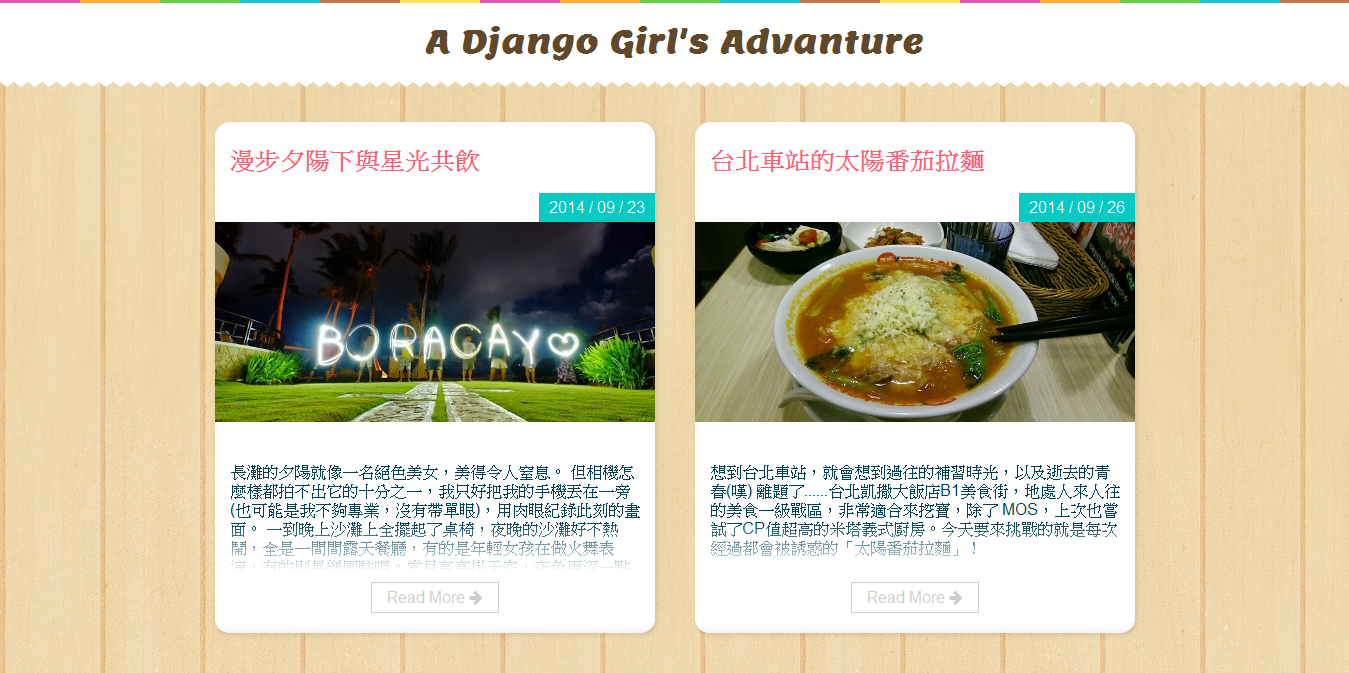
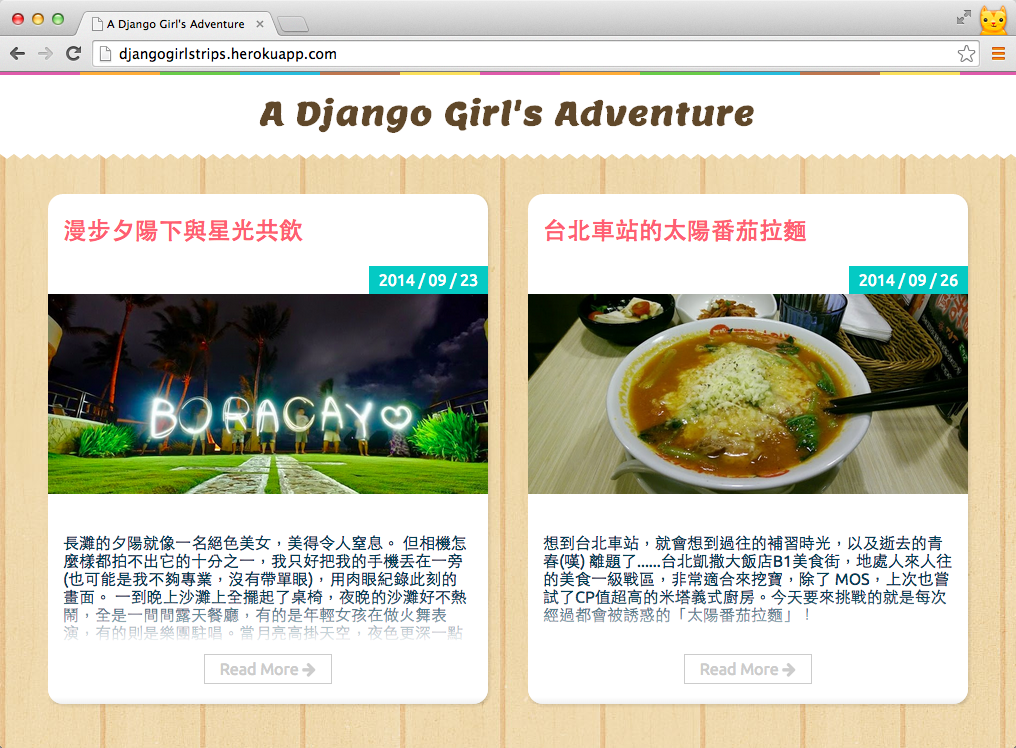
Fix typo

diff --git a/django/dynamic_url.md b/django/dynamic_url.md
@@ -97,7 +97,7 @@ return render(request, 'post.html', {'post': post})
 <html>
 <head>
     <meta charset="utf-8">
-    <title>A Django Girl's Advanture</title>
+    <title>A Django Girl's Adventure</title>
     <link href='http://fonts.googleapis.com/css?family=Lemon' rel='stylesheet' type='text/css'>
     <link href="//maxcdn.bootstrapcdn.com/font-awesome/4.2.0/css/font-awesome.min.css" rel="stylesheet">
     <link href="http://djangogirlstaipei.github.io/assets/css/style.css" rel=stylesheet>
@@ -105,7 +105,7 @@ return render(request, 'post.html', {'post': post})
 <body>
     <div class="header">
         <h1 class="site-title text-center">
-            <a href="/">A Django Girl's Advanture</a>
+            <a href="/">A Django Girl's Adventure</a>
         </h1>
     </div>
     <div class="container post post-detail">

diff --git a/django/template_tags.md b/django/template_tags.md
@@ -182,7 +182,7 @@ urlpatterns = patterns('',
 <html>
 <head>
     <meta charset="utf-8">
-    <title>A Django Girl's Advanture</title>
+    <title>A Django Girl's Adventure</title>
     <link href='http://fonts.googleapis.com/css?family=Lemon' rel='stylesheet' type='text/css'>
     <link href="//maxcdn.bootstrapcdn.com/font-awesome/4.2.0/css/font-awesome.min.css" rel="stylesheet">
     <link href="http://djangogirlstaipei.github.io/assets/css/style.css" rel=stylesheet>
@@ -190,7 +190,7 @@ urlpatterns = patterns('',
 <body>
     <div class="header">
         <h1 class="site-title text-center">
-            <a href="/">A Django Girl's Advanture</a>
+            <a href="/">A Django Girl's Adventure</a>
         </h1>
     </div>
     <div class="container">
